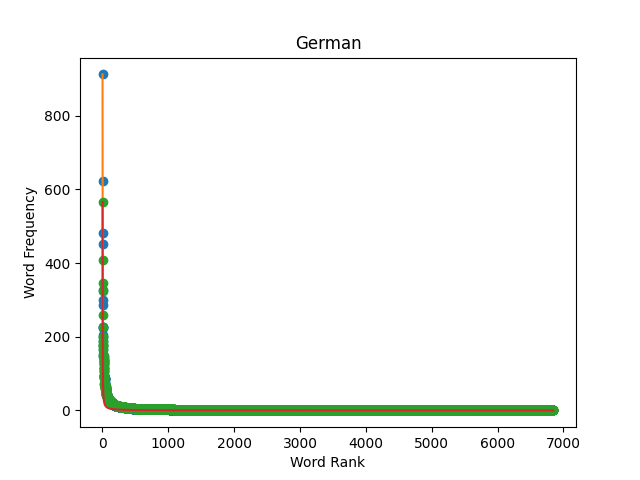
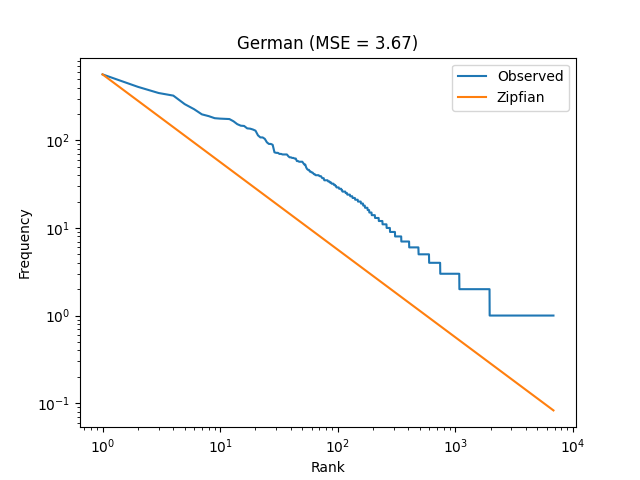
Modified Exercise.py

diff --git a/exercise_2.py b/exercise_2.py
@@ -1,5 +1,5 @@
 import matplotlib.pyplot as plt
-from collections import Counter
+import numpy as np
 
 def analysis(name, data):
   """
@@ -9,33 +9,32 @@ def analysis(name, data):
   :param data: list of words
   """
 
-  word_freq = Counter(data)
-    
-  # Compute the rank-frequency distribution
-  freq_rank = sorted(list(word_freq.values()), reverse=True)
-  
-  # Compute the rank of each word
-  word_rank = list(range(1, len(word_freq)+1))
-  
-  # Plot the Zipfian distribution of words
-  plt.plot(word_rank, freq_rank, 'o')
-  plt.title(name)
-  plt.xlabel('Word Rank')
-  plt.ylabel('Word Frequency')
-  
-  # Compute the true Zipfian distribution
-  k = freq_rank[0] # normalization constant
-  true_freq_rank = [k/i for i in word_rank]
-  
-  # Plot the true Zipfian distribution
-  plt.plot(word_rank, true_freq_rank, '-')
-  
+  freq_dict = {}
+  for word in data:
+      freq_dict[word] = freq_dict.get(word, 0) + 1
+
+  # Sort the frequency dictionary by descending order of frequency
+  sorted_freq = sorted(freq_dict.items(), key=lambda x: x[1], reverse=True)
+
+  # Compute the rank and frequency lists
+  ranks = np.arange(1, len(sorted_freq) + 1)
+  freqs = [f for _, f in sorted_freq]
+
+  # Plot the rank vs frequency on a log-log scale
+  plt.figure()
+  plt.loglog(ranks, freqs, label='Observed')
+
+  # Compute the expected frequencies using Zipf's law
+  expected_freqs = [freqs[0] / r for r in ranks]
+  plt.loglog(ranks, expected_freqs, label='Zipfian')
+
   # Compute the mean squared error
-  mse = sum([(freq_rank[i] - true_freq_rank[i])**2 for i in range(len(word_rank))]) / len(word_rank)
+  mse = np.mean((np.log(freqs) - np.log(expected_freqs))**2)
+  plt.title(f'{name} (MSE = {mse:.2f})')
+  plt.xlabel('Rank')
+  plt.ylabel('Frequency')
+  plt.legend()
   print(f"Mean Squared Error: {mse}")
-  
-  # Show the plot
-  #plt.savefig('my_plot.png')
   return plt.show(), mse
  # print("TODO", name)
  

diff --git a/Assignment1.py b/Assignment1.py
@@ -27,7 +27,7 @@ nltk.download('gutenberg', download_dir='.')
 with open("./corpora/gutenberg/austen-persuasion.txt", "r") as f:
     p,m = analysis("austen-persuasion", f.read().lower().split())
     plt.savefig('my_plot3.png')
-
+    
 
 #Run on Transformer's trainer module's source code
 with open("data/trainer.py", "r") as f:

diff --git a/Readme.md b/Readme.md
@@ -1,5 +1,15 @@
 
 
+
+Name 1: Prashant Bhardwaj <br />
+Student id 1: 7029400 <br />
+Email 1: prbh00001@stud.uni-saarland.de <br />
+
+
+Name 2: Manisha Singh <br />
+Student id 2: 7029101 <br />
+Email 2: masi00009@stud.uni-saarland.de<br/> 
+
 1. [This is code for the Analysis Function which is](./exercise_2.py)
 
 2. [This is the modified code for showing the plot of the English, German, "austen-persuasion" (I could not find the `PIRATES OF THE CARRIBEAN: DEAD MAN'S CHEST` in the nltk corpus)](./Assignment1.py)
@@ -18,6 +28,7 @@ pip install -r requirements.txt
 python Assignment.py
 ```
 
+Exercise 2.1
 These are the plots after using the analysis function
 ![](./my_plot1.png)
 ![](./my_plot2.png)
@@ -27,10 +38,10 @@ These are the plots after using the analysis function
 
 MSE for the Curves resplectively are :
 ```bash
-Mean Squared Error: 85.21973406158385
-Mean Squared Error: 72.47734079360484
-Mean Squared Error: 1622.9310249539299
-Mean Squared Error: 2193.180837099103
+Mean Squared Error: 1.703206791790246
+Mean Squared Error: 3.6735349682341853
+Mean Squared Error: 0.7288796650245711
+Mean Squared Error: 0.3319513937090788
 ```
 
 For Exercise 1:
@@ -40,4 +51,14 @@ To compute p(b|c), we need to apply Bayes' theorem, which requires the calculati
 We could try to use the Markov assumption that the current event only depends on the preceding event, and assume that p(c|b) is equal to p(c), but this assumption may not hold true. Therefore, we cannot confidently compute p(b|c) with the given information.
 ```
 
+Exercise 2.2
+```
+If the plot shows a linear relationship between log(rank) and log(frequency), and the MSE is relatively low, then Zipf's law can be considered an accurate prediction of the data which is the case of "English", "austen-persuasion" and "Python" as we can see from the plots.
 
+
+However, if the plot deviates significantly from a linear relationship and/or the MSE is high, then Zipf's law may not be an accurate prediction of the data which is the case for "German" as we can see from the plots.
+```
+Exercise 2.4
+```
+The vertical gaps or "steps" in the plot for high-rank words (rightmost) are caused by the limited size of the dataset. As the rank increases, the frequency of the words decreases, and the number of words with that frequency also decreases. This leads to a smaller sample size for those words, which results in a higher level of noise and variance in the frequency estimates. This makes it harder to accurately estimate the true frequency of high-rank words, leading to the gaps in the plot.
+```
